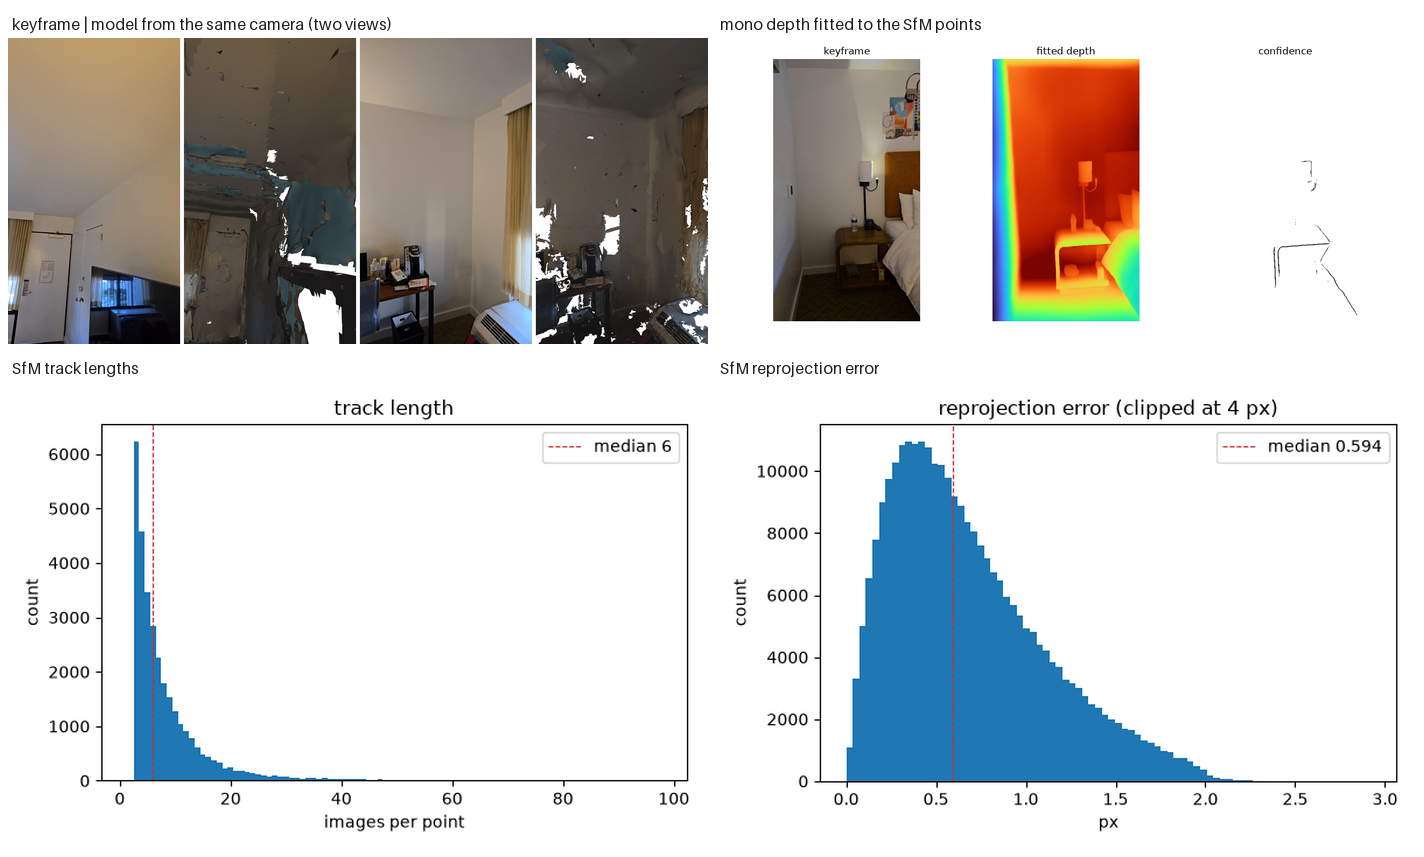
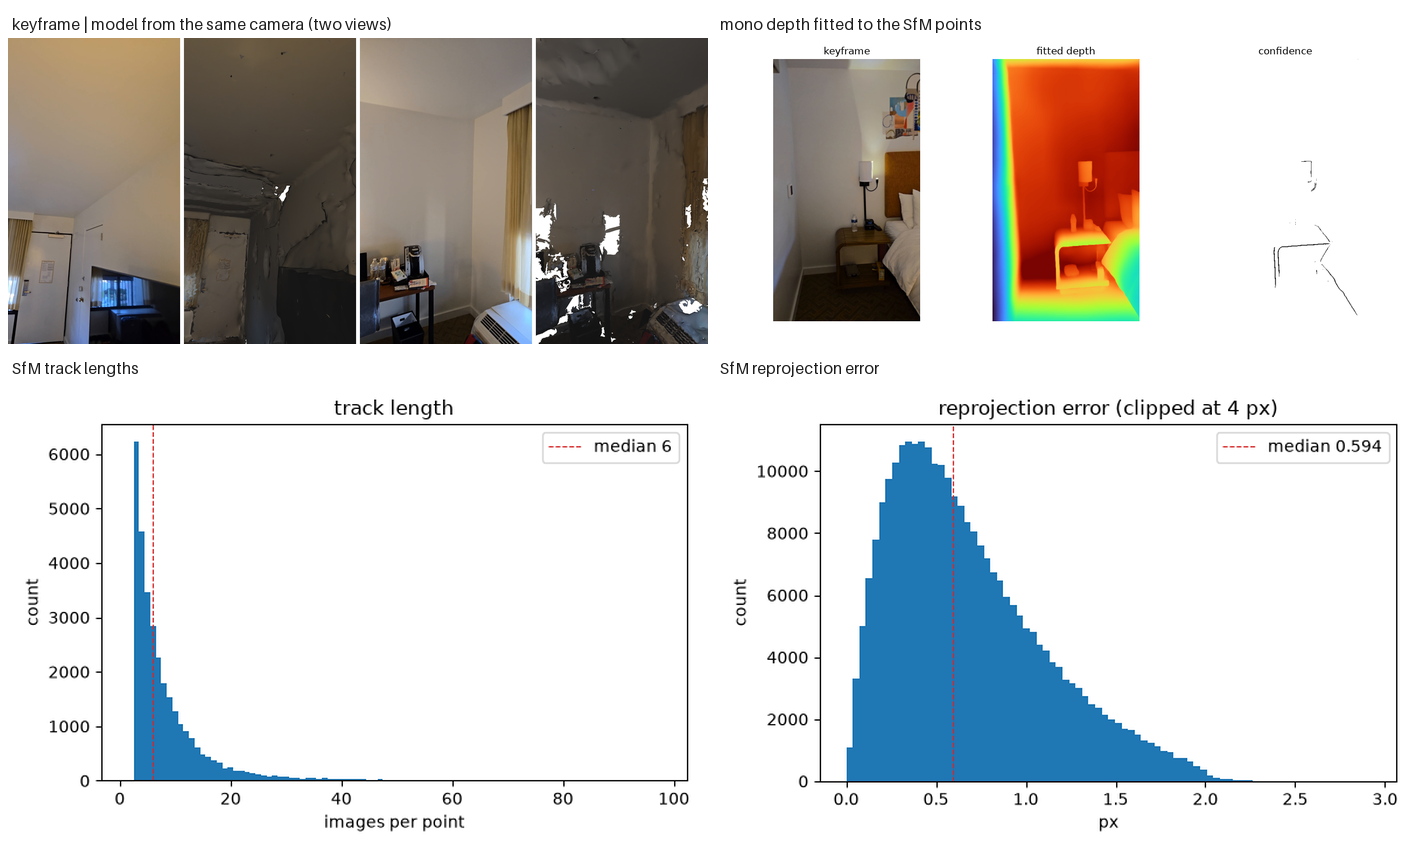
docs: README hotel1 results with fewer holes

Changed region(s): [[0.1236, 0.1517, 0.2472, 0.4247], [0.3708, 0.0607, 0.4326, 0.091], [0.4635, 0.3641, 0.4944, 0.3944]]

diff --git a/README.md b/README.md
@@ -110,7 +110,7 @@ Design points worth knowing:
 pixi run recon run --input data/hotel1
 ```
 
-Run `20261105_093901` on a GTX 1660 Ti (6 GB), `cuda_6gb` preset. All 10 report thresholds pass.
+Run `20261105_093901` on a GTX 1660 Ti (6 GB), `cuda_6gb` preset, with `mesh_post`, `export` and `report` rerun on the current defaults. All 10 report thresholds pass.
 
 | Stage | Time | Result |
 |---|---|---|
@@ -119,11 +119,11 @@ Run `20261105_093901` on a GTX 1660 Ti (6 GB), `cuda_6gb` preset. All 10 report 
 | `sfm` | 927 s | 372 of 375 images registered, 31,566 points, 0.67 px mean reprojection error |
 | `align` | 7 s | gravity residual 0.96 deg (median), floor tilt 0.46 deg |
 | `dense` | 5458 s | 11.6 M dense points, mesh 4.1 M faces, 2.4 M after refine |
-| `mesh_post` | 688 s | 2.0 M faces, 2 texture atlases, 0 % untextured faces, wall RMS 0.02 % of the diagonal |
-| `export` | 106 s | `model.glb` 149.5 MB, cameras re-project within 0.075 px |
-| total | 7284 s (2.0 h) | sum of the stage times |
+| `mesh_post` | 699 s | 2.0 M faces, 2 texture atlases, 0 % untextured faces, wall RMS 0.03 % of the diagonal |
+| `export` | 100 s | `model.glb` 156.1 MB, cameras re-project within 0.075 px |
+| total | 7289 s (2.0 h) | sum of the stage times |
 
-The stage times come from `08_report/summary.json`; the first four stages of this run were produced in earlier invocations of the same run directory (`--resume`) and `dense` finished in 91 min on the OpenMVS `develop` build (the 2.1 build needed about 2.4 times as long for densify alone). The renders below are unretouched: the mesh still has holes where nothing was seen and noisy surfaces on furniture.
+The stage times come from `08_report/summary.json`; the first four stages of this run were produced in earlier invocations of the same run directory (`--resume`) and `dense` finished in 91 min on the OpenMVS `develop` build (the 2.1 build needed about 2.4 times as long for densify alone). The renders below are unretouched: the mesh still has holes where nothing was seen well (floor beside the bed, behind furniture) and noisy surfaces on furniture. Seen from the keyframes, 4.5 % of the surface is missing from the final mesh (`scripts/hole_share.py`).
 
 ![Pipeline stages](results/hotel1/stages.png)
 
@@ -137,7 +137,7 @@ The camera path of the video (camera 1, 320 cameras) seen from above, the sparse
 
 ![Details](results/hotel1/details.png)
 
-Left of each pair a keyframe, right the model rendered from the same camera pose (the poses line up, the holes and the blue gap-fill patches show what is still missing), then the mono depth fit, the SfM track lengths and the SfM reprojection error.
+Left of each pair a keyframe, right the model rendered from the same camera pose (the poses line up; the remaining holes show what is still missing), then the mono depth fit, the SfM track lengths and the SfM reprojection error.
 
 ## Tests
 
